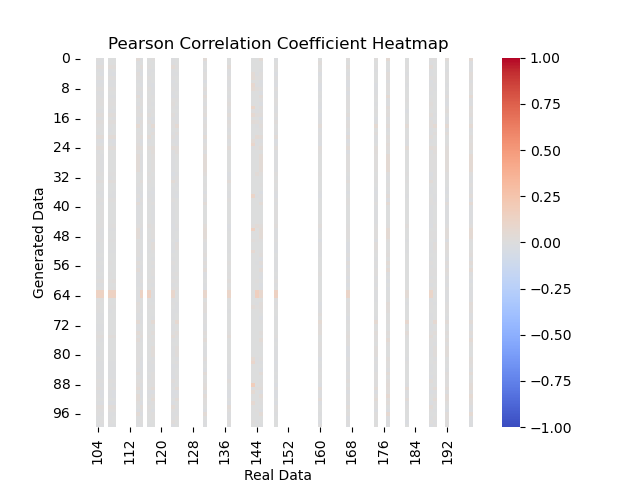
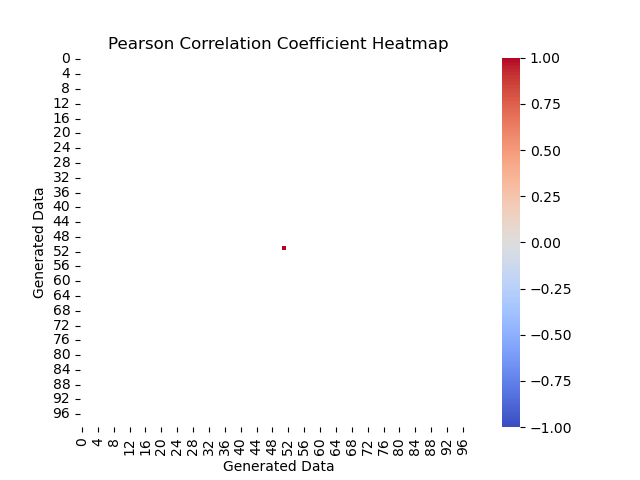
heatmaps v2

Changed region(s): [[0.0625, 0.125, 0.75, 1.0]]

diff --git a/pearsonheatmap.py b/pearsonheatmap.py
@@ -6,14 +6,10 @@ import numpy as np
 import collections
 import anndata as ad
 
-# np.random.seed(1)
-# torch.manual_seed(1)
-
+#Load data
 np.random.seed(4)
 
 data_dir = "B2SC/filtered_gene_bc_matrices/hg19/"
-#data_dir = "/u/hc2kc/hg19/"
-# data_dir = "/home/hc2kc/Rivanna/scVAE/hg19/"
 
 adata = sc.read_10x_mtx(data_dir, var_names='gene_symbols', cache=True)
 
@@ -25,147 +21,61 @@ gen = ad.AnnData(X = gendata)
 gen.var_names = adata.var_names
 adata.X = adata.X.toarray()
 
-# sc.pp.filter_genes_dispersion(adata, min_mean=0.0125, max_mean=3, min_disp=0.5)
-sc.pp.filter_cells(adata, min_genes=10)
-
-def apply_gaussian_noise(dataset, mean, std_dev, num_rows_to_replace):
-    num_rows = 2700
-    #adata.obs['labels'] = adata.obs['labels'].cat.add_categories([0])
-
-    # Generate Gaussian noise
-    #noise = np.zeros(num_rows_to_replace)
-
-    noise = np.random.normal(mean, std_dev, num_rows_to_replace)
-    #Select random rows
-    random_row_indices = np.random.choice(num_rows, num_rows_to_replace, replace=False)
-
-    # Add the noise to the original data
-    for i in range(0,num_rows_to_replace):
-        current_row = dataset[random_row_indices[i]]
-        current_noise = noise[i]
-
-    
-        # Add noise only to non-zero values in the row
-        for j in range(len(current_row)):
-            if current_row[j] != 0:
-                current_row[j] += current_noise
-        #adata.obs.at[str(random_row_indices[i]),'labels'] = '0'
-    return dataset
 
 
-# Pearson Correlation Coefficient Heatmap
-# Calculate Pearson correlation coefficient
-# Import seaborn library
 import seaborn as sns
 import matplotlib.pyplot as plt
 
-# Select 100 top variable genes based on scanpy highly_variable_genes
-from scanpy.preprocessing import highly_variable_genes
-
-# Normalize
-sc.pp.normalize_total(adata, target_sum=1e4)
-
-# Log Transformation
-adata.raw = adata
-sc.pp.log1p(adata)
-
 num_genes = 100
 
-sc.pp.highly_variable_genes(adata, n_top_genes=num_genes)
-#top_variable_genes = adata.var.highly_variable
+def select_genes(data):
+    gene_mean = data.X.mean(axis=0)
+    gene_std = data.X.std(axis=0)
+    gene_cv = gene_std / gene_mean
+    gene_cv = np.nan_to_num(gene_cv)
+    top_genes_indices = np.argsort(gene_cv)[::-1][:num_genes]
+    return top_genes_indices
 
-def select_genes(adata):
-    adata.var['mean'] = adata.X.mean(axis=0)
-    adata.var['variance'] = adata.X.var(axis=0)
-    adata.var['dispersion'] = adata.var['variance'] / adata.var['mean']
-    top_genes_names = adata.var['dispersion'].nlargest(num_genes).index.tolist()
-    top_variable_genes = [adata.var_names.get_loc(gene_name) for gene_name in top_genes_names]
-    return top_variable_genes
-top_variable_genes = select_genes(adata)
-
-
-# Calculate standard deviation for each gene across cells
-gene_std_devs = np.std(adata.X, axis=0)
-gene_means = np.mean(adata.X, axis=0)
-
-# Calculate coefficient of variation for each gene across cells
-epsilon = 1e-9 # small constant to avoid division by zero
-gene_cv = gene_std_devs / (gene_means + epsilon)
-
-# Select 100 top variable genes based on coefficient of variation
-#top_variable_genes = np.argsort(gene_cv)[::-1][0:num_genes]
+# Make a copy of the adata object stored in adata_temp
+adata_temp = adata.copy()
+gen_temp = gen.copy()
+top_variable_genes = select_genes(adata_temp)
 
 # Subset your data to include only these genes
 adata_top = adata.X[:, top_variable_genes]
 # Subset gen using the same genes
 gen_top = gen.X[:, top_variable_genes]
-# Calculate Pearson correlation coefficient
-pearson_corr = np.corrcoef(adata_top, gen_top, rowvar=False)
 
-#pearson_corr = np.nan_to_num(pearson_corr)
+# Gen map
+pearson_corr = np.corrcoef(gen_top, rowvar=False)
 
-print("Min correlation:", np.min(pearson_corr))
-print("Max correlation:", np.max(pearson_corr))
+# Create heatmap
+a = sns.heatmap(pearson_corr, cmap="coolwarm", vmin = -1, vmax = 1)
+
+# Save the figure
+a.set_title('Pearson Correlation Coefficient Heatmap')
+a.set_xlabel('Generated Data')
+a.set_ylabel('Generated Data')
+a.set_xlim(0, 100)
+a.set_ylim(0, 100)
+a.invert_yaxis()
+
+plt.savefig('B2SC/figures/heatmap_generated.png')
+plt.clf()
+
+# Real Map
+pearson_corr = np.corrcoef(adata_top, rowvar=False)
+
 # Create heatmap
 a = sns.heatmap(pearson_corr, cmap="coolwarm", vmin = -1, vmax = 1)
 
 # Save the figure
 a.set_title('Pearson Correlation Coefficient Heatmap')
 a.set_xlabel('Real Data')
-a.set_ylabel('Generated Data')
-a.set_xlim(100, 200)
+a.set_ylabel('Real Data')
+a.set_xlim(0, 100)
 a.set_ylim(0, 100)
 a.invert_yaxis()
 
-plt.savefig('B2SC/figures/heatmap_generated.png')
-plt.show()
-plt.clf()
-
-'''
-# Map between real and noise
-adata_temp = adata.X[:, top_variable_genes]
-apply_gaussian_noise(adata_temp, 0, 1, 2700)
-pearson_corr = np.corrcoef(adata_temp, rowvar=False)
-print("Min correlation:", np.min(pearson_corr))
-print("Max correlation:", np.max(pearson_corr))
-# Create heatmap with custom color map
-ax = sns.heatmap(pearson_corr, cmap="coolwarm", vmin=-1, vmax=1)
-
-# Save the figure
-ax.set_title('Pearson Correlation Coefficient Heatmap')
-ax.set_xlabel('Noise')
-ax.set_ylabel('Noise')
-ax.set_xlim(0, num_genes)
-ax.set_ylim(0, num_genes)
-ax.invert_yaxis()
-plt.savefig('B2SC/figures/heatmap_noise.png')
-plt.clf()
-'''
-
-# Map between real and noise
-adata_control = adata.X[:, top_variable_genes]
-pearson_corr2 = np.corrcoef(gen_top, gen_top, rowvar=False)
-
-print("Min correlation:", np.min(pearson_corr2))
-print("Max correlation:", np.max(pearson_corr2))
-ax = sns.heatmap(pearson_corr2, cmap="coolwarm", vmin = -1, vmax = 1)
-
-# Save the figure
-ax.set_title('Pearson Correlation Coefficient Heatmap')
-ax.set_xlabel('Real Data')
-ax.set_ylabel('Real Data')
-ax.set_xlim(0, 100)
-ax.set_ylim(0, 100)
-ax.invert_yaxis()
-
 plt.savefig('B2SC/figures/heatmap_control.png')
-plt.clf()
-
-print(pearson_corr.shape)
-print(pearson_corr2.shape)
-# Pearson Corr vs Pearson Corr2
-plt.scatter(pearson_corr, pearson_corr2)
-plt.xlabel('Pearson Correlation Coefficient with Noise')
-plt.ylabel('Pearson Correlation Coefficient with Control')
-plt.savefig('B2SC/figures/pearson_corr_vs_pearson_corr2.png')
 plt.clf()

diff --git a/pearsonheatmap2.py b/pearsonheatmap2.py
@@ -1,0 +1,48 @@
+import scanpy as sc
+import pandas as pd
+import torch
+from torch.utils.data import TensorDataset, DataLoader
+import numpy as np
+import collections
+import anndata as ad
+
+np.random.seed(4)
+
+data_dir = "B2SC/filtered_gene_bc_matrices/hg19/"
+
+adata = sc.read_10x_mtx(data_dir, var_names='gene_symbols', cache=True)
+
+gendata = np.load('B2SC/filtered_gene_bc_matrices/hg19/recon_counts.npy')
+genlabels = np.load('B2SC/filtered_gene_bc_matrices/hg19/labels.npy')
+
+
+gen = ad.AnnData(X = gendata)
+gen.var_names = adata.var_names
+adata.X = adata.X.toarray()
+
+# Select top 100 genes based on std/mean
+mean = np.mean(adata.X, axis=0)
+std = np.std(adata.X, axis=0)
+std_mean_ratio = std / mean
+top_100_genes = np.argsort(std_mean_ratio)[::-1][:100]
+adata_temp = adata.X[:, top_100_genes]
+
+print(adata_temp)
+
+import seaborn as sns
+import matplotlib.pyplot as plt
+
+# Calculate Pearson correlation coefficients
+corr_matrix = np.corrcoef(adata.X.T)
+
+# Create heatmap
+a = sns.heatmap(corr_matrix, cmap='coolwarm')
+a.set_title('Pearson Correlation Coefficient Heatmap')
+a.set_xlabel('Real Data')
+a.set_ylabel('Real Data')
+a.set_xlim(0, 100)
+a.set_ylim(0, 100)
+a.invert_yaxis()
+
+plt.savefig('B2SC/figures/pheat.png')
+plt.clf()
